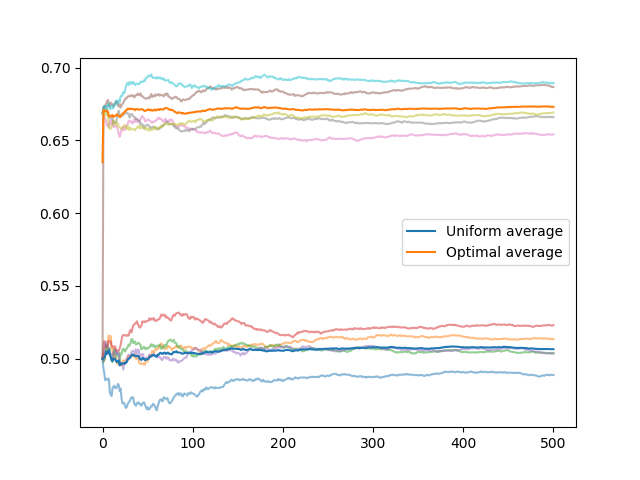
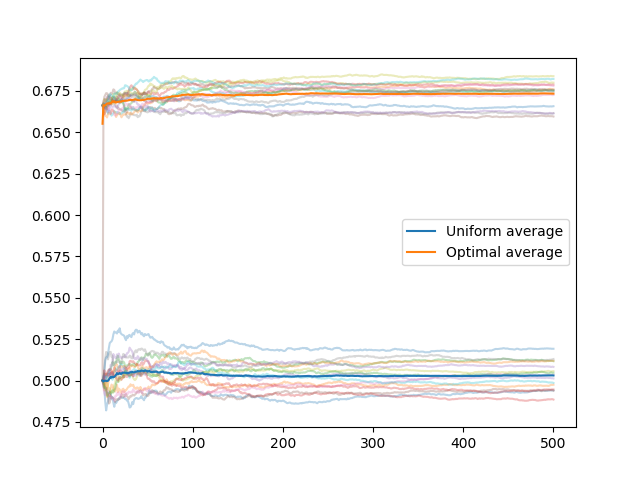
Wrote function to plot simple graphs +  misc

diff --git a/utilities/plot.py b/utilities/plot.py
@@ -50,10 +50,10 @@ def plot_exposures(default_set, optimized_set):
 
     figure('Exposure')
     for i, exposures in enumerate(default_set):
-        plot(exposures, alpha=.5)
+        plot(exposures, alpha=.3)
 
     for i, exposures in enumerate(optimized_set):
-        plot(exposures, alpha=.5)
+        plot(exposures, alpha=.3)
 
     plot(mean(default_set, axis=0), label='Uniform average')
     plot(mean(optimized_set, axis=0), label='Optimal average')
@@ -61,6 +61,24 @@ def plot_exposures(default_set, optimized_set):
     legend()
     savefig('../results/network_exposure_' + num_steps + '.png')
     show()
+
+
+# Plot network
+def plot_network(network, blocking=True, save_plot=True, _title='Network plot'):
+    figure(_title)
+    title(_title)
+    axis('off')  # Disable axis
+
+    graph = network.network_plot
+    plot_layout = spring_layout(graph)
+
+    draw_networkx_edges(graph, plot_layout, alpha=.3)
+    draw_networkx_nodes(graph, plot_layout, node_size=80, edgecolors='k', node_color='w')
+    draw()
+
+    if save_plot:
+        savefig('../results/network_plot.png')
+    show(block=blocking)  # Open matplotlib window
 
 
 # def run_update(tmp, network, layout):

diff --git a/utilities/animate.py b/utilities/animate.py
@@ -1,0 +1,30 @@
+from matplotlib.pylab import figure, show, savefig, title, axis, draw
+from networkx import spring_layout, draw_networkx_edges, draw_networkx_nodes
+from matplotlib.animation import FuncAnimation
+
+
+def add_node(graph, i, plot_layout):
+    # draw_networkx_edges(graph, plot_layout, alpha=.3)
+    # draw_networkx_nodes(node, plot_layout, node_size=100, edgecolors='k', node_color='w')
+    i += 1
+    draw()
+
+
+def animate_creation(network, blocking=True, save_plot=True):
+    _title = 'Free-Scale Network'
+    fig = figure(_title)
+    axis('off')
+
+    graph = network.network_plot
+    plot_layout = spring_layout(graph)
+
+    init_nodes = graph.nodes[:3]
+    init_edges = graph.edges[:2]
+    draw_networkx_nodes(graph, plot_layout, nodelist=init_nodes, node_size=100, edgecolors='k', node_color='w')
+    draw_networkx_edges(graph, plot_layout, edgelist=init_edges, alpha=.3)
+    draw()
+    show()
+    i = 3
+
+    animation = FuncAnimation(fig, add_node, fargs=(graph, i, plot_layout))
+

diff --git a/execute/run_cost_estimation.py b/execute/run_cost_estimation.py
@@ -1,0 +1,37 @@
+from model.network import network
+from matplotlib.pylab import scatter, figure, show, savefig
+from time import time_ns
+from numpy import array
+from multiprocessing import Pool
+
+
+def run_trial(n):
+    net = network(n)
+
+    start = time_ns()
+    net.optimize_initial(False)
+    end = time_ns()
+
+    print('Done', n)
+    return n, (end - start) / 1000000000
+
+
+if __name__ == '__main__':
+    num_trials = 10
+    max_n = 500
+    n = 4
+    times = []
+    proc_pool = Pool(2)
+    n_vals = []
+
+    while n < max_n:
+        for i in range(num_trials):
+            n_vals.append(n)
+        n *= 2
+
+    times = array(proc_pool.map(run_trial, n_vals))
+
+    figure('Time to run')
+    scatter(times[:, 0], times[:,  1])
+    savefig('../results/optimization_time.png')
+    show()

diff --git a/execute/run_op_compare.py b/execute/run_op_compare.py
@@ -6,8 +6,8 @@ from utilities.plot import plot_exposures
 net = network(100)
 print('Network generated')
 
-num_steps = 1000
-num_trials = 25
+num_steps = 500
+num_trials = 15
 default_set = []
 optimized_set = []
 

diff --git a/tests/plot_simple_network.py b/tests/plot_simple_network.py
@@ -1,0 +1,5 @@
+from model.network import network
+from utilities.plot import plot_network
+
+net = network(100)
+plot_network(net, _title='Free-Scale Network')

diff --git a/execute/run_network_creation.py b/execute/run_network_creation.py
@@ -1,0 +1,6 @@
+from model.network import network
+from utilities.animate import animate_creation
+
+net = network(100)
+
+animate_creation(net)
